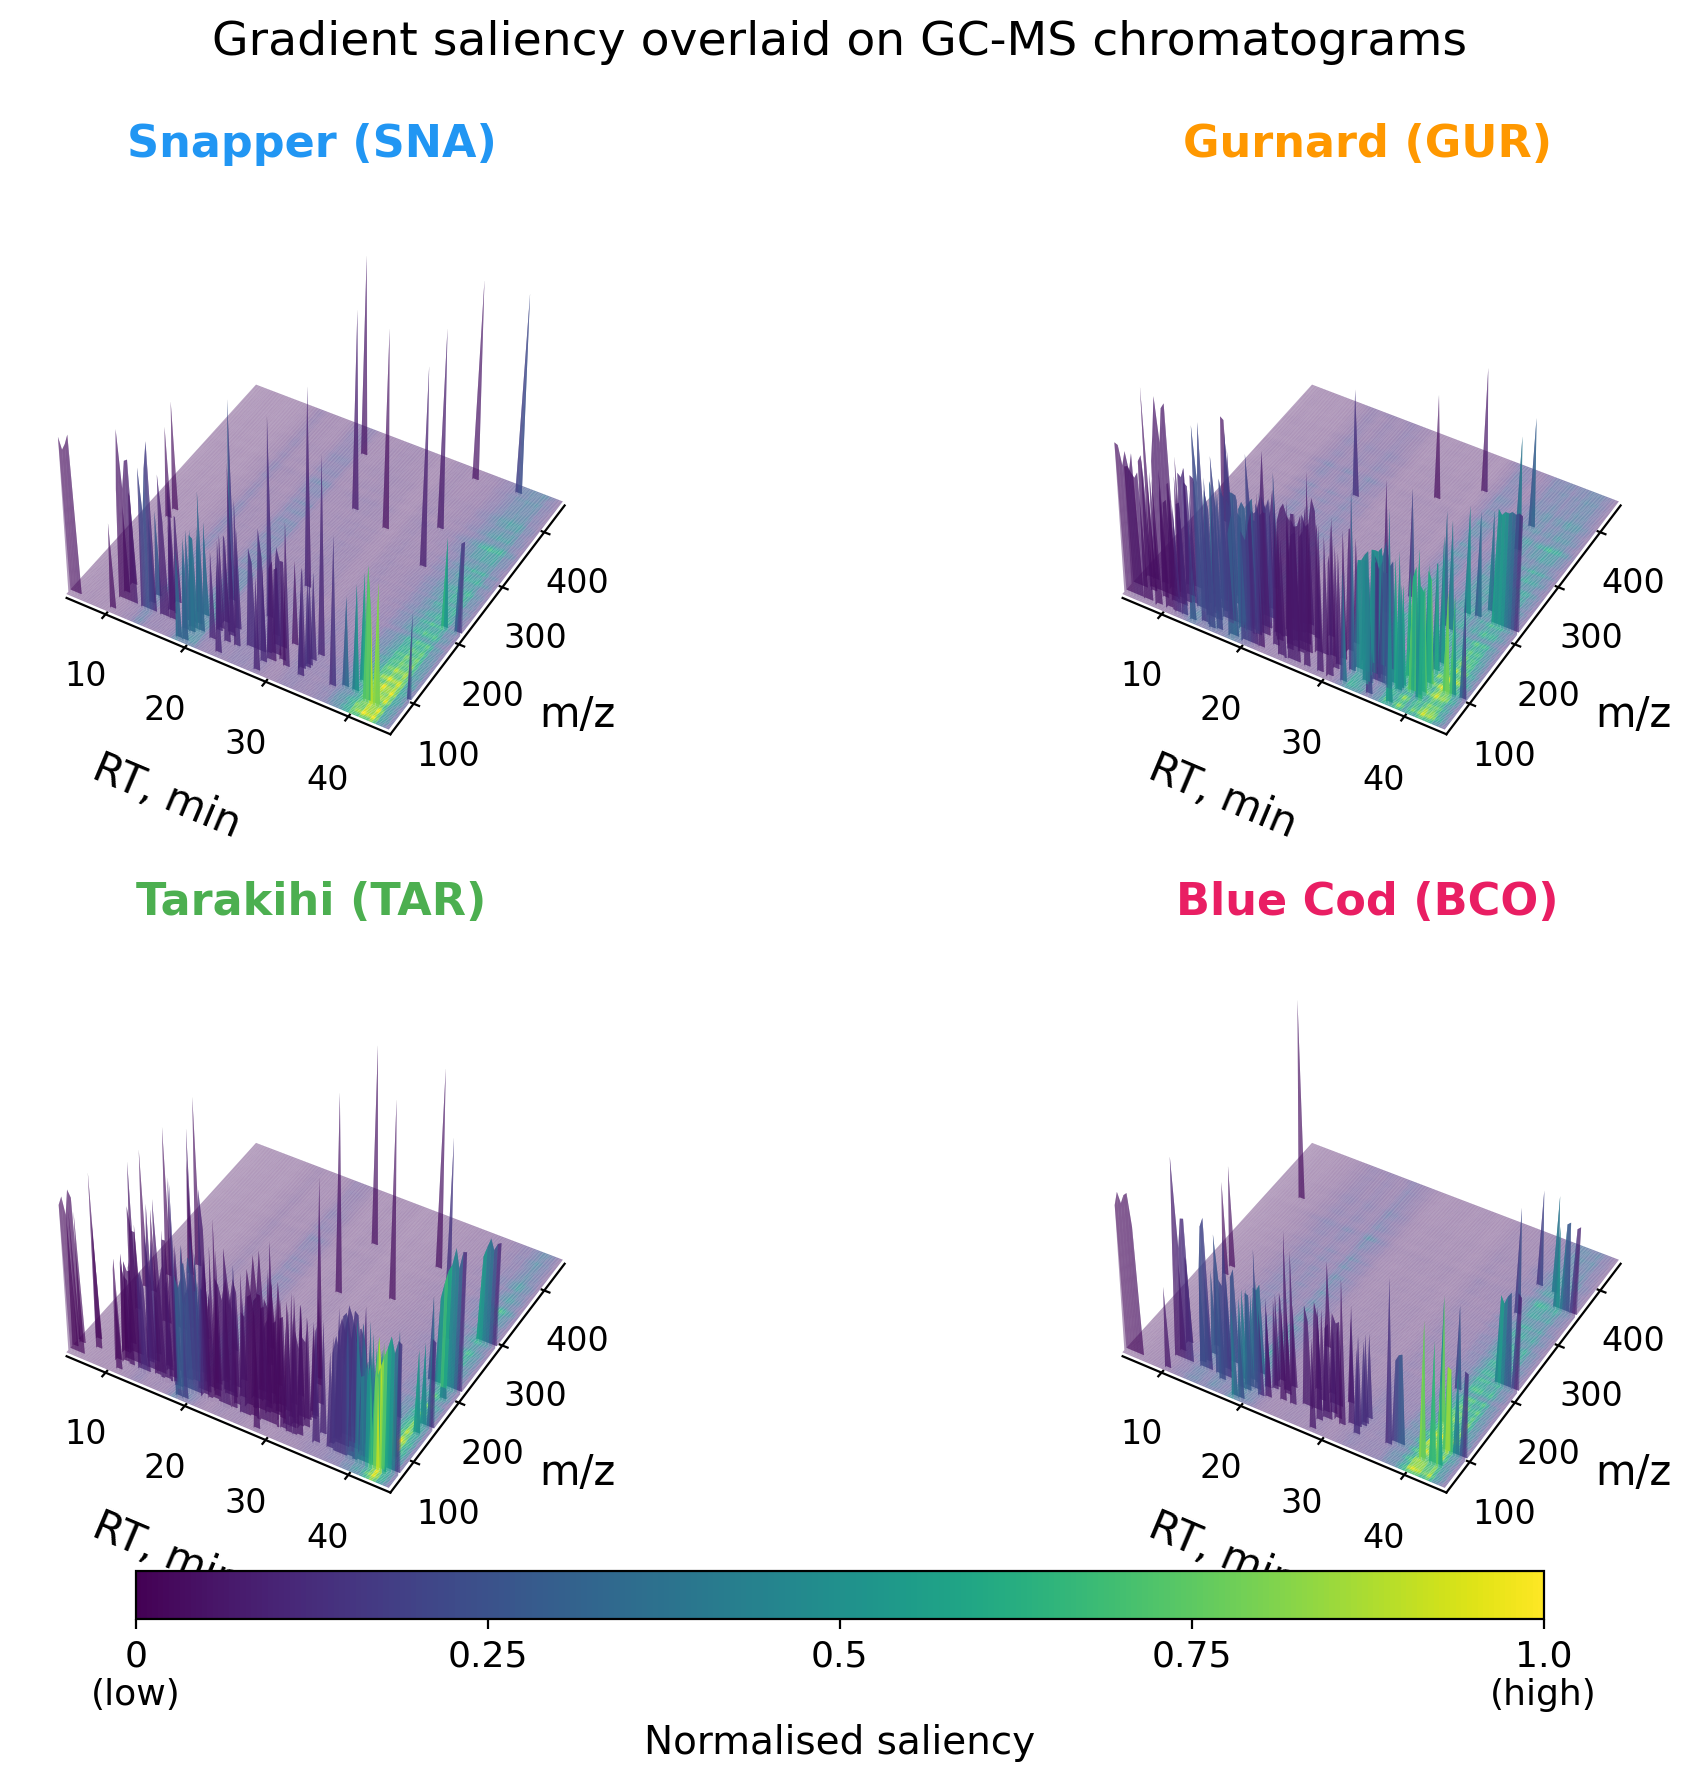
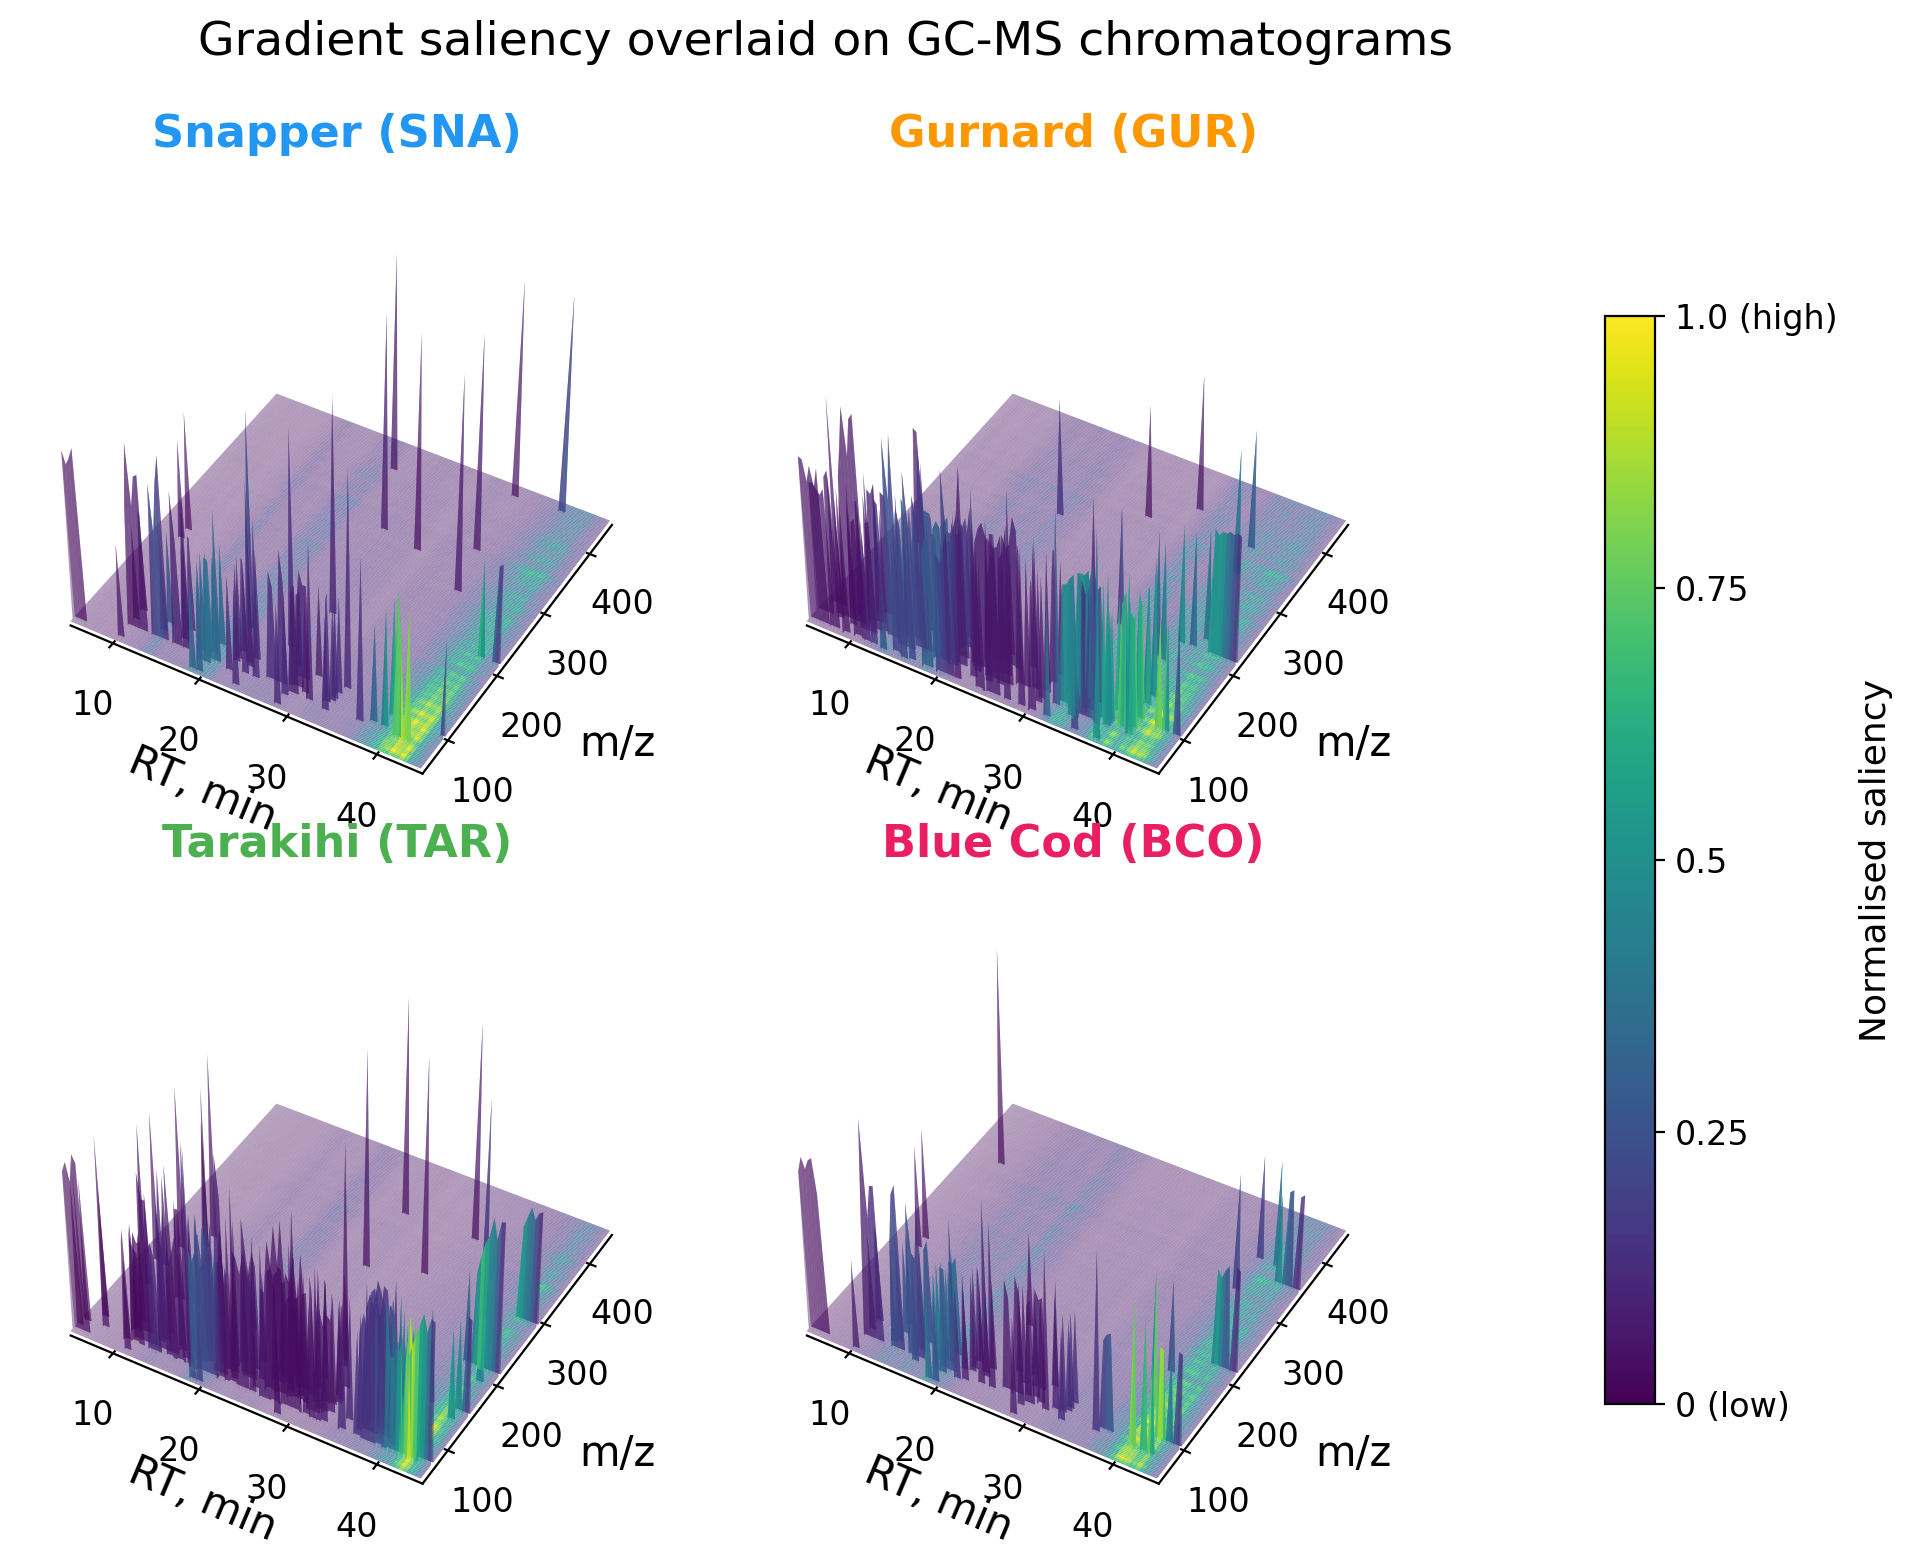
Tighten saliency-3d layout; vertical colorbar (was overlapping axis labels)
- The horizontal colorbar sat right where the bottom row's "RT, min"
  axis labels are, and overlapped them. Moved it to a vertical bar on
  the right of the 2x2 grid instead.
- Pulled the two columns much closer together: 3D axes don't fill
  their allotted subplot cell (the rotated surface leaves empty
  margin inside each cell regardless of ordinary wspace/hspace), so
  wspace is now negative to compensate.
- Cut axis labelpad (RT: 12->2, m/z: 12->... then back to 12 after
  "m/z" ran into its own tick labels at the smaller pad) so the RT
  label doesn't hang far enough down-left to collide with the next
  row's species titles.

Regenerated straight from the saved real saliency_mean.npz + fish
chroma files -- no GPU retrain needed, this is a layout-only change.

diff --git a/scripts/11_saliency.py b/scripts/11_saliency.py
@@ -164,9 +164,12 @@ def plot_3d(sal_mean: np.ndarray, chromas: np.ndarray, y: np.ndarray, out: Path)
     RT_LO, RT_HI = 5.0, 45.0
     S_RT, S_MZ   = 2, 2
 
-    fig, axes_grid = plt.subplots(2, 2, figsize=(11, 8.6), subplot_kw={'projection': '3d'})
-    fig.subplots_adjust(bottom=0.12, hspace=0.3, wspace=0.0, top=0.90,
-                        left=0.02, right=0.98)
+    fig, axes_grid = plt.subplots(2, 2, figsize=(10, 8.0), subplot_kw={'projection': '3d'})
+    # 3D axes don't fill their allotted cell (the rotated surface leaves empty
+    # margin inside each cell regardless of wspace/hspace), so the columns and
+    # rows are pulled closer with *negative* spacing to compensate.
+    fig.subplots_adjust(bottom=0.06, hspace=0.12, wspace=-0.22, top=0.90,
+                        left=0.02, right=0.86)
 
     for c in range(4):
         ax = axes_grid[c // 2, c % 2]
@@ -216,19 +219,21 @@ def plot_3d(sal_mean: np.ndarray, chromas: np.ndarray, y: np.ndarray, out: Path)
         ax.set_xticks([10, 20, 30, 40])
         ax.set_yticks([100, 200, 300, 400])
         ax.tick_params(labelsize=12)
-        ax.set_xlabel('RT, min', fontsize=15, labelpad=12)
+        ax.set_xlabel('RT, min', fontsize=15, labelpad=2)
         ax.set_ylabel('m/z',     fontsize=15, labelpad=12)
         ax.set_title(SPECIES_LABEL[c], fontweight='bold', color=COLOURS[c], pad=2, fontsize=16)
 
-    cbar_ax = fig.add_axes([0.18, 0.055, 0.64, 0.028])
+    # Vertical, to the right of the grid: a horizontal bar along the bottom
+    # would compete with the bottom row's "RT, min" axis labels for the same
+    # space and overlap them.
+    cbar_ax = fig.add_axes([0.89, 0.12, 0.025, 0.68])
     sm = cm.ScalarMappable(cmap='viridis', norm=Normalize(0, 1))
     sm.set_array([])
-    cbar = fig.colorbar(sm, cax=cbar_ax, orientation='horizontal')
+    cbar = fig.colorbar(sm, cax=cbar_ax, orientation='vertical')
     cbar.set_ticks([0, 0.25, 0.5, 0.75, 1.0])
-    cbar.set_ticklabels(['0\n(low)', '0.25', '0.5', '0.75',
-                         '1.0\n(high)'])
-    cbar.ax.tick_params(labelsize=13)
-    cbar.set_label('Normalised saliency', fontsize=14, labelpad=4)
+    cbar.set_ticklabels(['0 (low)', '0.25', '0.5', '0.75', '1.0 (high)'])
+    cbar.ax.tick_params(labelsize=12)
+    cbar.set_label('Normalised saliency', fontsize=13, labelpad=8)
     fig.suptitle('Gradient saliency overlaid on GC-MS chromatograms',
                  fontsize=17, y=0.985)
     fig.savefig(out, dpi=200, bbox_inches='tight')
